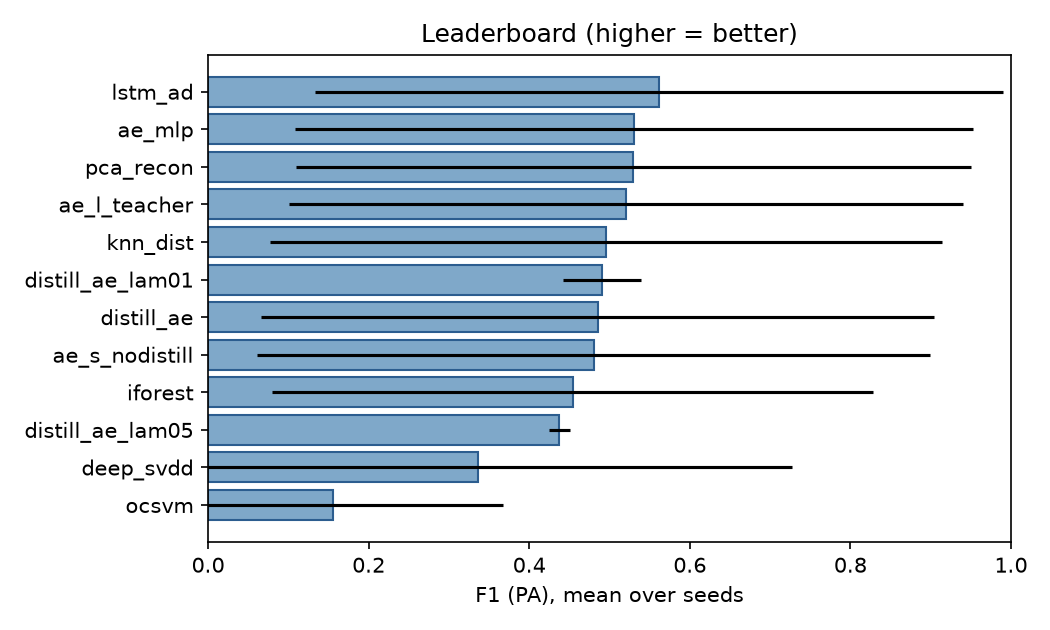
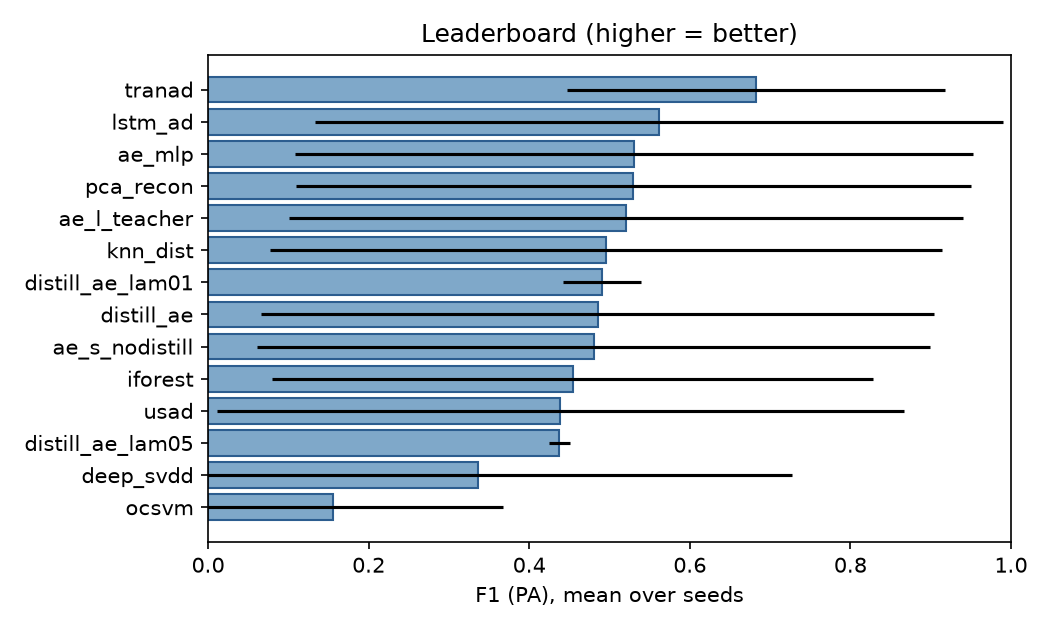
Complete 266-row results including usad x smd; refresh analysis report

Changed region(s): [[0.0305, 0.1206, 0.9448, 0.8143]]

diff --git a/analysis/report.md b/analysis/report.md
@@ -1,16 +1,17 @@
 # 实验分析报告（链路 C 自动生成）
 
-- 数据源：`results/results.csv`（224 行，12 模型 × 3 数据集）
+- 数据源：`results/results.csv`（266 行，14 模型 × 3 数据集）
 - 协议版本：0.6；基线：`pca_recon`
 
 ## ⚠ 机器复核警告
 
-- 种子方差异常（std>0.10）：lstm_ad、ae_mlp、pca_recon、ae_l_teacher、knn_dist、distill_ae、ae_s_nodistill、iforest、deep_svdd、ocsvm
+- 种子方差异常（std>0.10）：tranad、lstm_ad、ae_mlp、pca_recon、ae_l_teacher、knn_dist、distill_ae、ae_s_nodistill、iforest、usad、deep_svdd、ocsvm
 
 ## 1. 总排行榜（种子均值 ± 标准差 [95% CI]）
 
 | 模型 | F1-PA | F1(非PA) | AUC-PR | AUC-ROC | 参数量 | CPU延迟(ms) | 运行数 |
 |---|---|---|---|---|---|---|---|
+| `tranad` | **0.6827** ±0.2350 [±0.1070] | 0.5584 ± 0.3681 | 0.5599 ± 0.3200 | 0.7630 | 195,135 | 0.529 | 21 |
 | `lstm_ad` | **0.5617** ±0.4281 [±0.1948] | 0.4113 ± 0.4203 | 0.7841 ± 0.3033 | 0.8342 | 8,141 | 6.140 | 21 |
 | `ae_mlp` | **0.5305** ±0.4219 [±0.1920] | 0.4132 ± 0.4203 | 0.7922 ± 0.2951 | 0.8272 | 378,872 | 0.070 | 21 |
 | `pca_recon` | **0.5295** ±0.4205 [±0.1914] | 0.3942 ± 0.4273 | 0.8177 ± 0.2547 | 0.8522 | 843,520 | 0.456 | 21 |
@@ -20,6 +21,7 @@
 | `distill_ae` | **0.4852** ±0.4195 [±0.1909] | 0.3945 ± 0.4282 | 0.7863 ± 0.2984 | 0.8134 | 96,524 | 0.044 | 21 |
 | `ae_s_nodistill` | **0.4804** ±0.4193 [±0.1909] | 0.3902 ± 0.4301 | 0.7224 ± 0.2681 | 0.7720 | 96,524 | 0.043 | 21 |
 | `iforest` | **0.4544** ±0.3744 [±0.1704] | 0.2125 ± 0.2125 | 0.7282 ± 0.1974 | 0.5862 | 12,514 | 12.653 | 21 |
+| `usad` | **0.4388** ±0.4276 [±0.1947] | 0.3492 ± 0.4517 | 0.7254 ± 0.2633 | 0.7879 | 20,215,522 | 10.141 | 21 |
 | `distill_ae_lam05` | **0.4376** ±0.0129 [±0.0102] | 0.2120 ± 0.0561 | 0.3736 ± 0.0059 | 0.4379 | 31,844 | 0.025 | 7 |
 | `deep_svdd` | **0.3356** ±0.3919 [±0.1784] | 0.1600 ± 0.2370 | 0.5029 ± 0.3819 | 0.6681 | 187,400 | 0.048 | 21 |
 | `ocsvm` | **0.1560** ±0.2113 [±0.0962] | 0.0815 ± 0.1035 | 0.7179 ± 0.2552 | 0.6517 | 573,405 | 0.450 | 21 |
@@ -40,22 +42,26 @@
 | `lstm_ad` | 1.0000 | 0.6851 | 0.0000 | 0.5617 |
 | `ocsvm` | 0.0000 | 0.4474 | 0.0206 | 0.1560 |
 | `pca_recon` | 1.0000 | 0.5884 | 0.0000 | 0.5295 |
+| `tranad` | 0.9969 | 0.4664 | 0.5847 | 0.6827 |
+| `usad` | 1.0000 | 0.3163 | 0.0000 | 0.4388 |
 
 ## 3. 显著性检验（vs 基线 `pca_recon`，配对 Wilcoxon + Holm）
 
 | 模型 | 配对数 | 中位ΔF1-PA | p(raw) | p(Holm) | 显著(α=0.05) |
 |---|---|---|---|---|---|
-| `ae_l_teacher` | 21 | 0.0000 | 0.028 | 0.125 | no |
-| `ae_mlp` | 21 | 0.0000 | 0.866 | 0.866 | no |
-| `ae_s_nodistill` | 21 | 0.0000 | 0.018 | 0.125 | no |
-| `deep_svdd` | 21 | -0.0007 | 0.003 | 0.033 | yes |
-| `distill_ae` | 21 | 0.0000 | 0.018 | 0.125 | no |
-| `distill_ae_lam01` | 7 | -0.0695 | 0.016 | 0.125 | no |
-| `distill_ae_lam05` | 7 | -0.1549 | 0.016 | 0.125 | no |
-| `iforest` | 21 | -0.1031 | 0.032 | 0.125 | no |
-| `knn_dist` | 21 | 0.0000 | 0.008 | 0.073 | no |
-| `lstm_ad` | 21 | 0.0000 | 0.018 | 0.125 | no |
-| `ocsvm` | 21 | -0.1410 | 0.002 | 0.024 | yes |
+| `ae_l_teacher` | 21 | 0.0000 | 0.028 | 0.141 | no |
+| `ae_mlp` | 21 | 0.0000 | 0.866 | 1.000 | no |
+| `ae_s_nodistill` | 21 | 0.0000 | 0.018 | 0.141 | no |
+| `deep_svdd` | 21 | -0.0007 | 0.003 | 0.039 | yes |
+| `distill_ae` | 21 | 0.0000 | 0.018 | 0.141 | no |
+| `distill_ae_lam01` | 7 | -0.0695 | 0.016 | 0.141 | no |
+| `distill_ae_lam05` | 7 | -0.1549 | 0.016 | 0.141 | no |
+| `iforest` | 21 | -0.1031 | 0.032 | 0.141 | no |
+| `knn_dist` | 21 | 0.0000 | 0.008 | 0.090 | no |
+| `lstm_ad` | 21 | 0.0000 | 0.018 | 0.141 | no |
+| `ocsvm` | 21 | -0.1410 | 0.002 | 0.028 | yes |
+| `tranad` | 21 | -0.0031 | 0.713 | 1.000 | no |
+| `usad` | 21 | 0.0000 | 0.011 | 0.114 | no |
 
 ## 4. 轻量化与蒸馏对比
 
